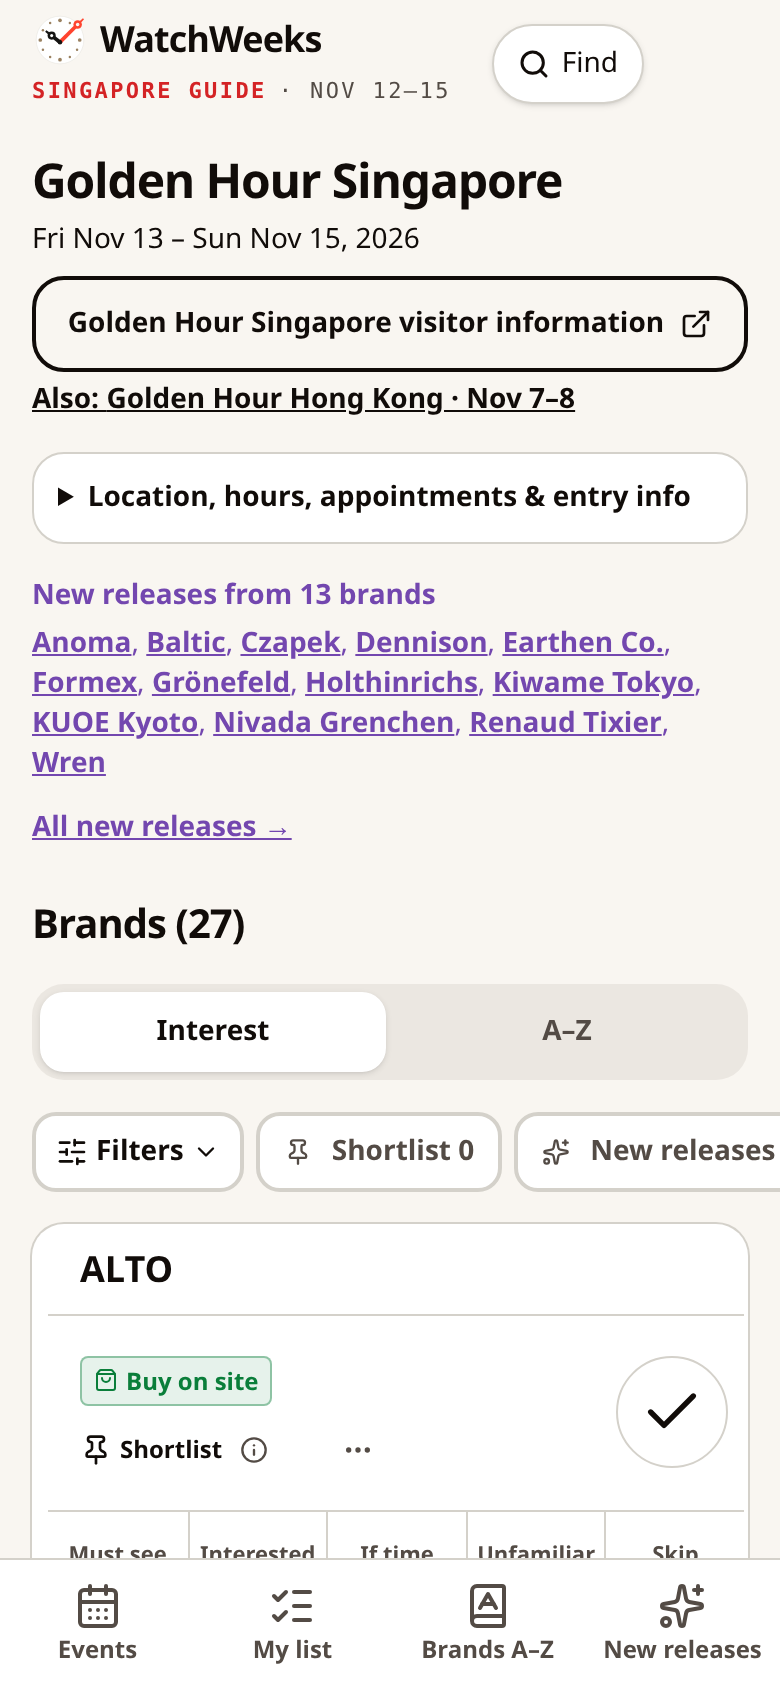
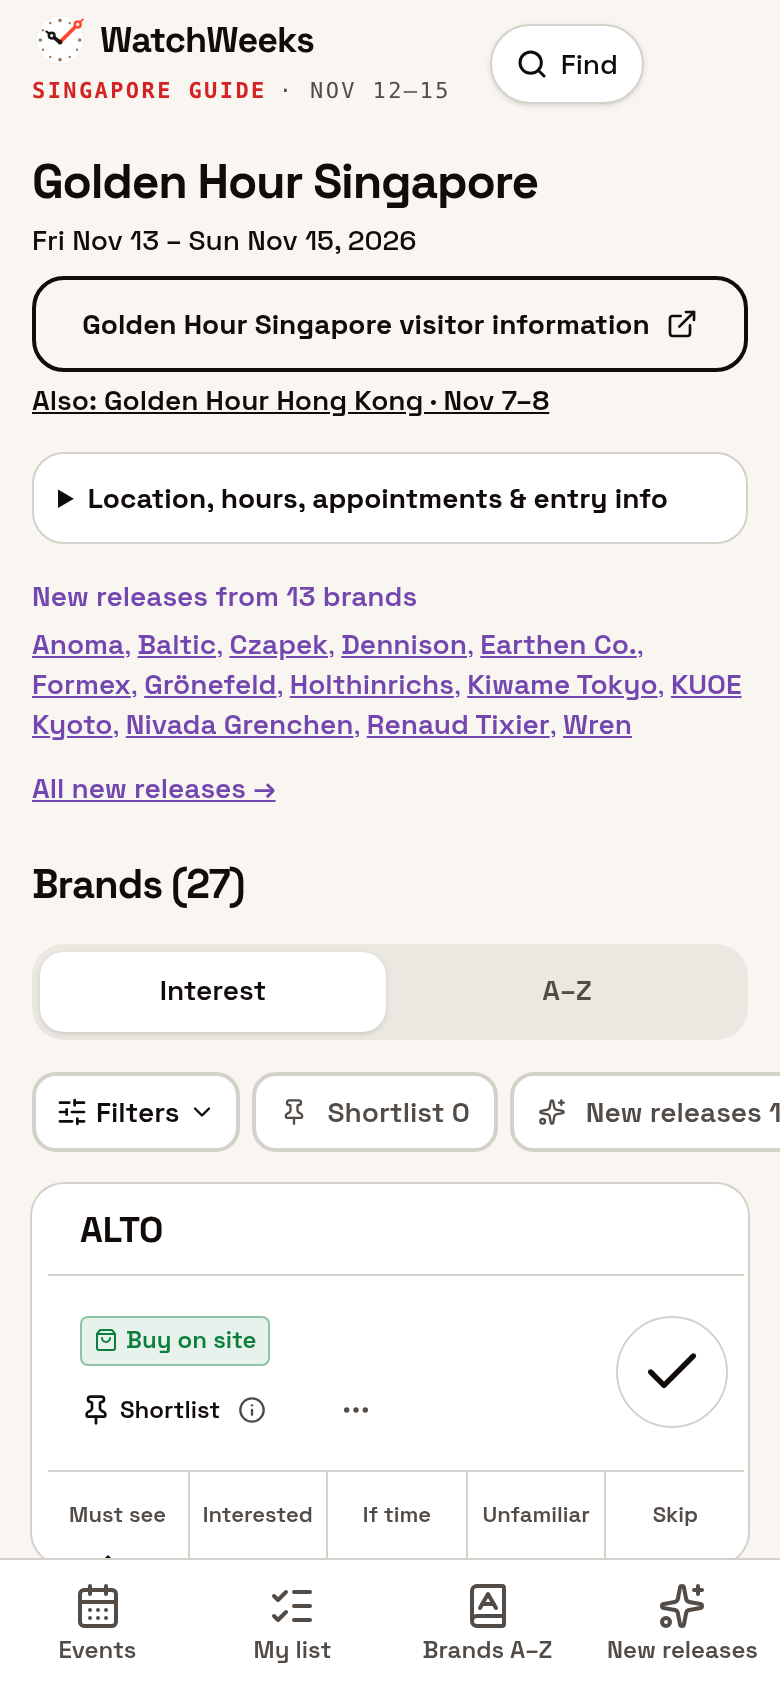
Apply Space Grotesk consistently across native typography

diff --git a/App/WatchWeeksApp.swift b/App/WatchWeeksApp.swift
@@ -1,4 +1,5 @@
 import SwiftUI
+import UIKit
 import WatchWeeksCore
 
 @MainActor final class AppModel: ObservableObject {
@@ -56,6 +57,7 @@ import WatchWeeksCore
     }
 }
 @main struct WatchWeeksApp: App {
+    init() { BrandTypography.configureNavigation() }
     @StateObject private var model = AppModel()
     @Environment(\.scenePhase) private var phase
     var body: some Scene {
@@ -80,10 +82,10 @@ struct RootView: View {
         .sheet(isPresented: Binding(get: { !analytics.choiceMade }, set: { _ in })) { AnalyticsConsent() }
         .onChange(of: tab) { _, value in if value == 1 { NativeAnalytics.shared.track(.myVisitViewed) } }
         .tint(Color(red:0.65,green:0.32,blue:0.16))
-        .font(.custom("SpaceGrotesk-Regular",size:17,relativeTo:.body))
+        .font(.wwBody)
         .safeAreaInset(edge: .bottom) {
             if let error = model.persistenceError {
-                VStack { Text(error).font(.footnote); Button("Retry saving") { Task { await model.retrySaving() } } }.padding().background(.regularMaterial)
+                VStack { Text(error).font(.wwFootnote); Button("Retry saving") { Task { await model.retrySaving() } } }.padding().background(.regularMaterial)
             }
         }
     }
@@ -102,16 +104,16 @@ struct DiscoveryView: View {
     var body: some View {
         NavigationStack {
             List {
-                Section { Text("Find your next watch event. Independent city guides, brands and new releases.").font(.subheadline).foregroundStyle(.secondary) }
+                Section { Text("Find your next watch event. Independent city guides, brands and new releases.").font(.wwSubheadline).foregroundStyle(.secondary) }
                 if model.loading && model.guides.isEmpty { ProgressView("Loading guides…") }
-                if let message = model.message { Section { Text(message).font(.callout); Button("Try again") { Task { await model.refresh() } } } }
-                if model.stale, let date = model.savedAt { Label("Offline copy · updated \(date.formatted(date: .abbreviated, time: .shortened))", systemImage: "clock.arrow.circlepath").font(.caption) }
+                if let message = model.message { Section { Text(message).font(.wwCallout); Button("Try again") { Task { await model.refresh() } } } }
+                if model.stale, let date = model.savedAt { Label("Offline copy · updated \(date.formatted(date: .abbreviated, time: .shortened))", systemImage: "clock.arrow.circlepath").font(.wwCaption) }
                 ForEach(ordered) { guide in
                     NavigationLink { CityView(guide: guide) } label: {
                         VStack(alignment: .leading, spacing: 8) {
-                            Text(EventDates.status(guide).rawValue).font(.caption).foregroundStyle(.secondary)
-                            Text(guide.city).font(.custom("SpaceGrotesk-Bold",size:24,relativeTo:.title2))
-                            Text(dateRange(guide)).font(.subheadline)
+                            Text(EventDates.status(guide).rawValue).font(.wwCaption).foregroundStyle(.secondary)
+                            Text(guide.city).font(.wwTitle2)
+                            Text(dateRange(guide)).font(.wwSubheadline)
                             if let summary = guide.summary { Text(summary).lineLimit(3).foregroundStyle(.secondary) }
                         }.padding(.vertical, 8)
                     }
@@ -136,14 +138,14 @@ struct CityView: View {
             case "Releases": ReleasesView(guide: guide)
             default:
                 List {
-                    Section { if let url=PublicLinks.safeExternal(guide.webURL) { WebsiteLink(title:"Full guide and planning tools",url:url,guide:guide) }; Text(dateRange(guide)); Text("All schedules use \(guide.timeZone) local time.").font(.caption).foregroundStyle(.secondary) }
+                    Section { if let url=PublicLinks.safeExternal(guide.webURL) { WebsiteLink(title:"Full guide and planning tools",url:url,guide:guide) }; Text(dateRange(guide)); Text("All schedules use \(guide.timeZone) local time.").font(.wwCaption).foregroundStyle(.secondary) }
                     ForEach(guide.events) { event in
                         Section(event.name) {
                             NavigationLink("Event details") { EventInfo(guide: guide, event: event) }
                             if let venue = event.venue { Label(venue, systemImage: "mappin.and.ellipse") }
                             if let address = event.address { Text(address).textSelection(.enabled) }
                             ForEach(Array(event.days.enumerated()), id: \.offset) { _, day in Text(day.label) }
-                            if let note = event.note { Text(note).font(.footnote) }
+                            if let note = event.note { Text(note).font(.wwFootnote) }
                             Text(EventDates.label(event.startsAt, zone: guide.timeZone))
                             if let end = event.endsAt { Text("Until \(EventDates.label(end, zone: guide.timeZone))") }
                             if let url = PublicLinks.safeExternal(event.webURL) { Link("Event information", destination: url); ShareLink(item: url) }
@@ -179,11 +181,11 @@ struct BrandRow: View {
     var selection: Selection { model.selection(guide, brand) }
     var body: some View {
         VStack(alignment: .leading, spacing: 10) {
-            Text(brand.name).font(.custom("SpaceGrotesk-SemiBold",size:17,relativeTo:.headline))
+            Text(brand.name).font(.wwHeadline)
             if showDetails { NavigationLink("Brand details") { BrandInfo(guide: guide, brand: brand) } }
-            if let summary = brand.summary { Text(summary).font(.subheadline).foregroundStyle(.secondary) }
+            if let summary = brand.summary { Text(summary).font(.wwSubheadline).foregroundStyle(.secondary) }
             let venues = guide.events.filter { brand.eventIDs.contains($0.id) }.map { [$0.name, $0.venue].compactMap { $0 }.joined(separator: " · ") }
-            ForEach(venues, id: \.self) { Text($0).font(.caption).foregroundStyle(.secondary) }
+            ForEach(venues, id: \.self) { Text($0).font(.wwCaption).foregroundStyle(.secondary) }
             LazyVGrid(columns: [GridItem(.adaptive(minimum: 100))], spacing: 8) {
                 ForEach([Interest.mustSee, .interested, .little, .unfamiliar, .skip], id: \.self) { interest in
                     Button {
@@ -195,7 +197,7 @@ struct BrandRow: View {
                 }
             }
             Toggle("Seen \(brand.name)", isOn: Binding(get: { selection.seen }, set: { model.set(Selection(interest: selection.interest, seen: $0), guide: guide, brand: brand) }))
-            if let url = PublicLinks.safeExternal(brand.webURL) { Link("Brand information", destination: url).font(.subheadline) }
+            if let url = PublicLinks.safeExternal(brand.webURL) { Link("Brand information", destination: url).font(.wwSubheadline) }
         }.padding(.vertical, 6).disabled(model.persistenceError != nil)
     }
 }
@@ -206,12 +208,12 @@ struct VisitView: View {
     var body: some View {
         NavigationStack {
             List {
-                Section { Text("Your selections stay on this device. They do not sync with your WatchWeeks website account.").font(.footnote).foregroundStyle(.secondary); Toggle("Show remaining only", isOn: $remaining) }
+                Section { Text("Your selections stay on this device. They do not sync with your WatchWeeks website account.").font(.wwFootnote).foregroundStyle(.secondary); Toggle("Show remaining only", isOn: $remaining) }
                 ForEach(model.visitGuides) { guide in
                     let selected = guide.brands.filter { let s = model.selection(guide, $0); return s.interest != .none && s.interest != .skip && s.interest != .unfamiliar && (!remaining || !s.seen) }
                     if !selected.isEmpty {
                         Section(guide.city) {
-                            if !model.guides.contains(where: { $0.id == guide.id }) { Text("Previously loaded guide; availability has not been confirmed.").font(.caption) }
+                            if !model.guides.contains(where: { $0.id == guide.id }) { Text("Previously loaded guide; availability has not been confirmed.").font(.wwCaption) }
                             let all = guide.brands.filter { [Interest.mustSee, .interested, .little].contains(model.selection(guide, $0).interest) }
                             let seen = all.filter { model.selection(guide, $0).seen }.count
                             ProgressView("\(seen) of \(all.count) seen", value: Double(seen), total: Double(max(all.count, 1)))
@@ -232,7 +234,7 @@ struct ReleasesView: View {
         List {
             ForEach(guide.releases.filter { query.isEmpty || $0.title.localizedCaseInsensitiveContains(query) || ($0.brandName?.localizedCaseInsensitiveContains(query) == true) }) { release in
                 NavigationLink { ReleaseDetail(guide: guide, release: release) } label: {
-                    HStack { ReleaseImage(url: release.imageURL).frame(width: 72, height: 72).clipped(); VStack(alignment: .leading) { Text(release.title).font(.custom("SpaceGrotesk-SemiBold",size:17,relativeTo:.headline)); if let brand = release.brandName { Text(brand).foregroundStyle(.secondary) } } }
+                    HStack { ReleaseImage(url: release.imageURL).frame(width: 72, height: 72).clipped(); VStack(alignment: .leading) { Text(release.title).font(.wwHeadline); if let brand = release.brandName { Text(brand).foregroundStyle(.secondary) } } }
                 }
             }
             if guide.releases.isEmpty { ContentUnavailableView("No releases available", systemImage: "clock") }
@@ -255,15 +257,15 @@ struct ReleaseDetail: View {
     var body: some View {
         ScrollView { VStack(alignment: .leading, spacing: 20) {
             ReleaseImage(url: release.imageURL).frame(height: 280)
-            Text(release.title).font(.custom("SpaceGrotesk-Bold",size:34,relativeTo:.largeTitle))
-            if let brand = release.brandName { Text(brand).font(.title2) }
-            if let kind = release.kind { Text(kind.capitalized).font(.caption) }
+            Text(release.title).font(.wwLargeTitle)
+            if let brand = release.brandName { Text(brand).font(.wwTitle2) }
+            if let kind = release.kind { Text(kind.capitalized).font(.wwCaption) }
             if let details = release.details { Text(details).textSelection(.enabled) }
             ForEach(Array(release.images.enumerated()), id: \.offset) { index, image in
                 if index > 0 { ReleaseImage(url:image.resolvedURL).frame(height:240) }
-                if let credit=image.credit { Text("Image: \(credit)").font(.caption).foregroundStyle(.secondary) }
+                if let credit=image.credit { Text("Image: \(credit)").font(.wwCaption).foregroundStyle(.secondary) }
             }
-            ForEach(release.awards,id: \.self) { Text($0).font(.caption) }
+            ForEach(release.awards,id: \.self) { Text($0).font(.wwCaption) }
             if let url = PublicLinks.safeExternal(release.webURL) { Link("Full details", destination: url); ShareLink(item: url) }
         }.padding() }.navigationTitle("New release").navigationBarTitleDisplayMode(.inline)
             .task { if !tracked { tracked=true; NativeAnalytics.shared.track(.releaseViewed,guide:guide,eventID:release.eventID,brandID:release.brandID,releaseID:release.id) } }
@@ -275,7 +277,7 @@ struct AboutView: View {
             Section("WatchWeeks") { Text("WatchWeeks is an independent guide to watch fairs and events. It is not affiliated with or endorsed by the listed event organizers or brands.") }
             AnalyticsSettings()
             Section("Your visit, your device") { Text("No account is required. Interest ratings and seen selections are saved on this device and do not synchronize with the website. Removing the app removes its local data."); Text("Previously loaded guides work offline. Images and content you have not loaded may require a connection.") }
-            Section("Explore more") { WebsiteLink(title:"Full WatchWeeks website",url:PublicLinks.home); Text("Use the website for accounts, synchronization and advanced planning.").font(.footnote); Link("Privacy policy", destination: PublicLinks.privacy) }
+            Section("Explore more") { WebsiteLink(title:"Full WatchWeeks website",url:PublicLinks.home); Text("Use the website for accounts, synchronization and advanced planning.").font(.wwFootnote); Link("Privacy policy", destination: PublicLinks.privacy) }
             Section { Text("Version 1.0.0 (1)").foregroundStyle(.secondary) }
         }.navigationTitle("About") }
     }
@@ -287,10 +289,10 @@ struct EventInfo: View {
     @State private var tracked = false
     var body: some View {
         List {
-            Text(event.name).font(.custom("SpaceGrotesk-Bold",size:24,relativeTo:.title2))
+            Text(event.name).font(.wwTitle2)
             if let venue=event.venue { Text(venue) }
             ForEach(Array(event.days.enumerated()), id: \.offset) { _, day in Text(day.label) }
-            Text("Times in \(guide.timeZone)").font(.caption)
+            Text("Times in \(guide.timeZone)").font(.wwCaption)
             if let note=event.note { Text(note) }
             if let url=PublicLinks.safeExternal(event.webURL) { Link("Official event information", destination:url) }
         }.navigationTitle("Event").task { if !tracked { tracked=true; NativeAnalytics.shared.track(.eventViewed,guide:guide,eventID:event.id) } }
@@ -318,6 +320,42 @@ struct CatalogView: View {
                 }
                 if model.guides.isEmpty { ContentUnavailableView("No guides loaded",systemImage:"globe",description:Text("Load guides in Events to browse this directory.")) }
             }.navigationTitle(releases ? "New releases" : "Brands A–Z")
+        }
+    }
+}
+
+// All text styles use bundled WatchWeeks typography and preserve Dynamic Type.
+extension Font {
+    static let wwBody = Font.custom("SpaceGrotesk-Regular", size: 17, relativeTo: .body)
+    static let wwHeadline = Font.custom("SpaceGrotesk-SemiBold", size: 17, relativeTo: .headline)
+    static let wwSubheadline = Font.custom("SpaceGrotesk-Regular", size: 15, relativeTo: .subheadline)
+    static let wwCallout = Font.custom("SpaceGrotesk-Regular", size: 16, relativeTo: .callout)
+    static let wwFootnote = Font.custom("SpaceGrotesk-Regular", size: 13, relativeTo: .footnote)
+    static let wwCaption = Font.custom("SpaceGrotesk-Medium", size: 12, relativeTo: .caption)
+    static let wwCaption2 = Font.custom("SpaceGrotesk-Regular", size: 11, relativeTo: .caption2)
+    static let wwTitle = Font.custom("SpaceGrotesk-Bold", size: 28, relativeTo: .title)
+    static let wwTitle2 = Font.custom("SpaceGrotesk-Bold", size: 22, relativeTo: .title2)
+    static let wwTitle3 = Font.custom("SpaceGrotesk-SemiBold", size: 20, relativeTo: .title3)
+    static let wwLargeTitle = Font.custom("SpaceGrotesk-Bold", size: 34, relativeTo: .largeTitle)
+}
+@MainActor enum BrandTypography {
+    static func configureNavigation() {
+        #if DEBUG
+        for name in ["Regular", "Medium", "SemiBold", "Bold"] {
+            assert(UIFont(name: "SpaceGrotesk-" + name, size: 17) != nil, "Bundled Space Grotesk failed to register")
+        }
+        #endif
+        let bar = UINavigationBar.appearance()
+        if let font = UIFont(name: "SpaceGrotesk-Bold", size: 34) {
+            bar.largeTitleTextAttributes = [.font: UIFontMetrics(forTextStyle: .largeTitle).scaledFont(for: font)]
+        }
+        if let font = UIFont(name: "SpaceGrotesk-SemiBold", size: 17) {
+            bar.titleTextAttributes = [.font: UIFontMetrics(forTextStyle: .headline).scaledFont(for: font)]
+        }
+        if let font = UIFont(name: "SpaceGrotesk-Medium", size: 10) {
+            let attributes: [NSAttributedString.Key: Any] = [.font: UIFontMetrics(forTextStyle: .caption2).scaledFont(for: font)]
+            UITabBarItem.appearance().setTitleTextAttributes(attributes, for: .normal)
+            UITabBarItem.appearance().setTitleTextAttributes(attributes, for: .selected)
         }
     }
 }

diff --git a/App/NativeAnalytics.swift b/App/NativeAnalytics.swift
@@ -56,7 +56,7 @@ struct AnalyticsSettings: View {
     var body: some View {
         Section("Usage analytics") {
             Toggle("Share anonymous usage analytics", isOn: Binding(get: { analytics.enabled }, set: { analytics.setEnabled($0) }))
-            Text("Optional PostHog analytics help improve WatchWeeks. We send a random app identifier, app/device information and actions such as guide views and ratings. No account, private notes, purchase prices, advertising ID or session replay. Native and website identities are not joined. Turn this off to stop future collection. Previously delivered data may remain under the privacy policy.").font(.footnote).foregroundStyle(.secondary)
+            Text("Optional PostHog analytics help improve WatchWeeks. We send a random app identifier, app/device information and actions such as guide views and ratings. No account, private notes, purchase prices, advertising ID or session replay. Native and website identities are not joined. Turn this off to stop future collection. Previously delivered data may remain under the privacy policy.").font(.wwFootnote).foregroundStyle(.secondary)
         }
     }
 }
@@ -93,9 +93,9 @@ struct AnalyticsConsent: View {
     @ObservedObject private var analytics = NativeAnalytics.shared
     var body: some View {
         VStack(alignment:.leading,spacing:24) {
-            Text("Help improve WatchWeeks").font(.title.bold())
+            Text("Help improve WatchWeeks").font(.wwTitle)
             Text("May we use optional PostHog analytics to understand which guides and features are useful? This sends a random app identifier and usage actions, not your name, private notes or purchase prices. There is no session replay or advertising tracking. Your website and app identities are not joined.")
-            Text("Either choice gives you the full app. You can change it in About at any time.").font(.subheadline).foregroundStyle(.secondary)
+            Text("Either choice gives you the full app. You can change it in About at any time.").font(.wwSubheadline).foregroundStyle(.secondary)
             Button("Allow usage analytics") { analytics.setEnabled(true); analytics.track(.appOpened) }.buttonStyle(.bordered)
             Button("Continue without analytics") { analytics.setEnabled(false) }.buttonStyle(.bordered)
             Link("Privacy policy",destination:PublicLinks.privacy)

diff --git a/docs/identity/README.md b/docs/identity/README.md
@@ -4,9 +4,9 @@ Retrieved read-only on 2026-11-08: https://watchweeks.com/favicon.svg (clock log
 https://watchweeks.com/assets/styles-BN-2ODJ7.css (warm neutral/black/orange palette),
 public mobile Singapore guide and Golden Hour event. Screenshots are SSR website
 references, not native screenshots. Web JS/third parties were blocked during
-capture and TLS verified through curl using the cloud CA. Google font rendering
-was blocked in reference captures, so typography must additionally be compared
-with the actual fully hydrated website on Mac.
+capture and TLS verified through curl using the cloud CA. External Google font requests were blocked during read-only capture; the reference
+images now load the bundled licensed Space Grotesk locally so the correct font
+is visible. Compare with the fully hydrated website and actual native app on Mac.
 
 App Fonts: Space Grotesk variable source from
 https://github.com/google/fonts/tree/main/ofl/spacegrotesk, OFL.txt bundled alongside

diff --git a/docs/FEATURE_PARITY.md b/docs/FEATURE_PARITY.md
@@ -32,3 +32,9 @@ Public Singapore API currently has 47 release entries while mobile page advertis
 56; do not fabricate missing releases. Ask backend owner to reconcile public-feed
 coverage only after documenting the discrepancy. Website display date New York
 Oct 14 differs from API start_date Oct 13; native currently trusts machine dates.
+
+Typography follow-up: all explicit native body/caption/heading/consent styles now
+use Space Grotesk with Dynamic Type-relative sizes. UIKit navigation titles and
+tab labels use the bundled font as well. Debug startup asserts all four weights
+register. Web reference screenshots were regenerated with local Space Grotesk.
+Native visual and large-text validation still requires Xcode/simulator.
